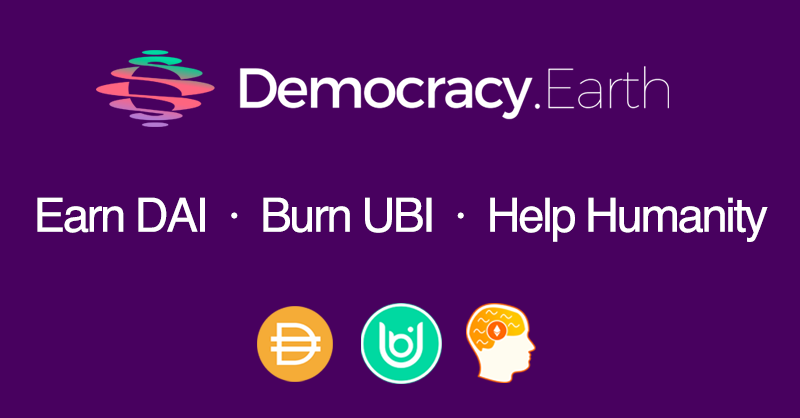
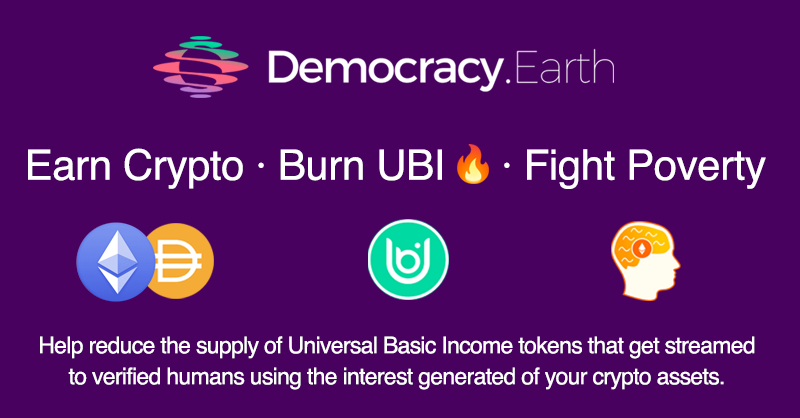
new meta card

diff --git a/src/components/Event/Event.jsx b/src/components/Event/Event.jsx
@@ -84,9 +84,7 @@ export default class Event extends Component {
 
   async getFeed() {
     const log = [];
-
     const currentBlock = await this.web3.eth.getBlockNumber();
-    console.log(`currentBlock: ${currentBlock}`);
 
     await this.vault.events.allEvents({
       fromBlock: parseInt(currentBlock - 100000),

diff --git a/src/components/Layout/Layout.jsx b/src/components/Layout/Layout.jsx
@@ -125,6 +125,8 @@ const Layout = (props) => {
     description = i18n.t('meta-search', { search });
   } else if (vault) {
     vaultData = find(vaultList, { path: vault });
+  } else {
+    vaultData = vaultList[0];
   }
 
   const meta = {
